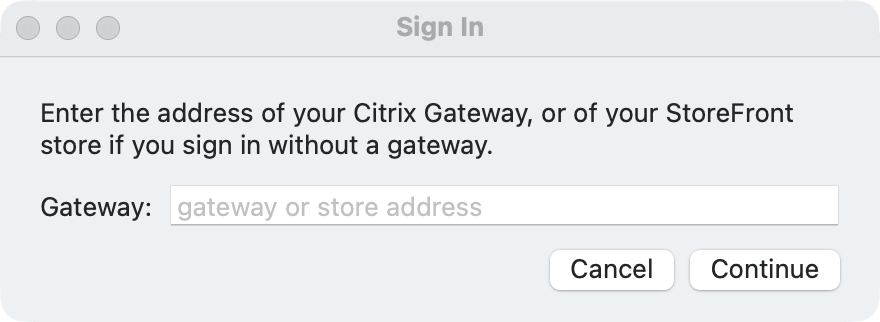
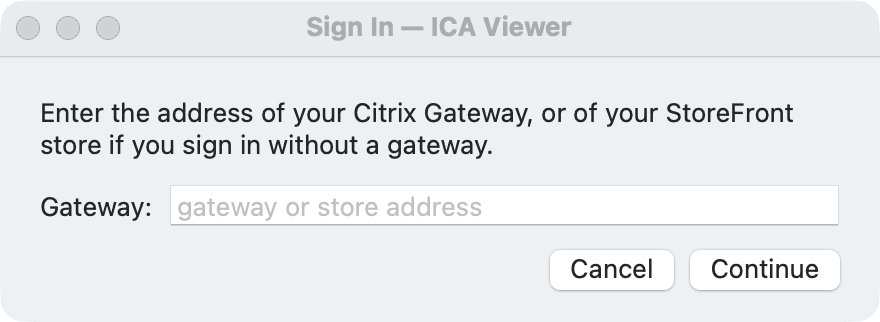
0.11.3: version, README and FEATURES (square remote windows, sign-in kept alive while a session is connected), manual 02/04/11/16 (keep-alive, window look), manual screenshots rebuilt (square windows, sign-in title)

Changed region(s): [[0.3375, 0.0311, 0.6443, 0.1242]]

diff --git a/manual/16-privacy-security.md b/manual/16-privacy-security.md
@@ -6,6 +6,7 @@ This chapter says what ICA Viewer stores and what leaves your Mac.
 
 - **The connection to your organization's server.** ICA Viewer connects only to the gateway or store address you give it, and from there to the session. Through a gateway, sessions are always encrypted with TLS. A store you reach directly decides this itself: if a session is not encrypted, the Connection Center shows **Connection: not encrypted**. A store address that starts with `http://` is not encrypted at all, your password included. ICA Viewer has no server of its own and sends no data to its authors or to anyone else.
 - **Your sign-in.** Your user name, password and one-time code go to your organization's gateway or store, as with any Citrix client.
+- **A keep-alive while you work.** While at least one session is connected, ICA Viewer asks the store for your session list every 30 minutes, so the gateway does not end your sign-in while you work in a remote app. Without a connected session it sends nothing, and your organization's idle time-out applies as usual.
 - **Your time zone.** When the server asks for it, the session gets your Mac's time zone, so remote apps show your local time.
 - **What you choose to share.** The clipboard, files you copy, a shared folder, the microphone or the camera reach the session only when you turn these on or use them (see below). The microphone and the camera are on by default, but they are used only while a remote app records or uses the camera, and only after you allowed it when macOS asked. macOS asks once: after that, any remote app in any session can use them without asking again, and the menu bar shows when it does.
 - **Reports.** A problem report is sent only when you create a GitHub issue yourself, after you have read the preview ([Report a Problem](13-report-a-problem.md)).

diff --git a/README.md b/README.md
@@ -44,14 +44,14 @@ product and not a replacement for the official client. Expect gaps; see [Status]
 
 The screenshots come from a test lab (macOS VM, example user and apps).
 
-## What it does (0.11.2)
+## What it does (0.11.3)
 
 - **Sign in** through a gateway (user name, password, one-time code) or to a StoreFront store
   directly; optional Keychain storage with Touch ID; Sign Out.
-- **Seamless apps** as native windows, several apps in one session, a published desktop in one window,
-  the launcher on ⌃⌥⌘L.
-- **Sessions survive trouble:** short network drops, automatic reconnect after longer ones, a
-  Connection Center to reconnect, disconnect or log off, and a notice for features the server blocks.
+- **Seamless apps** as native windows with square corners, as on Windows, several apps in one session, a
+  published desktop in one window, the launcher on ⌃⌥⌘L.
+- **Sessions survive trouble:** short network drops, automatic reconnect after longer ones, a sign-in
+  kept alive while a session is connected, a Connection Center to reconnect, disconnect or log off, and a notice for features the server blocks.
 - **Clipboard:** text, images, rich text, and files and folders both ways (large copies with progress).
 - **Client drive, PDF printing, audio playback, the microphone and the webcam** (both on by default; used
   only while a remote app records or uses the camera, after macOS asks once), Retina-sharp display, keyboard

diff --git a/FEATURES.md b/FEATURES.md
@@ -1,8 +1,8 @@
 # Feature matrix: stock Citrix Workspace app vs ICAViewer
 
 ICAViewer is an independent project and is not affiliated with Citrix. The stock columns summarise
-Citrix's public documentation (links under Sources). The Ours column describes ICAViewer v0.11.2 as
-of 2026-11-19; how each feature behaves is described in the README and under `docs/`.
+Citrix's public documentation (links under Sources). The Ours column describes ICAViewer v0.11.3 as
+of 2026-11-21; how each feature behaves is described in the README and under `docs/`.
 
 ## At a glance
 
@@ -256,7 +256,8 @@ windows are borderless windows that Accessibility reports as `AXDialog` without 
 Some third-party window switchers require a standard window with a minimize button and therefore
 skip them. The Dock icons come from placeholder "Husk" processes (`com.citrix.ctxapphusk`) that own
 no windows, controlled by `enableAppDockEnhancement` / `EnableAppPreview`. In ICAViewer each remote
-window is an `AXStandardWindow` with an enabled minimize button that round-trips to a TWI minimise,
+window is an `AXStandardWindow` with an enabled minimize button that round-trips to a TWI minimise
+(since 0.11.3 borderless with square corners, as the app draws itself; the window is still reported this way),
 a single caption (the remote one). Verified across two screens. Since 0.5 each remote app also has
 its own Dock and Cmd-Tab entry, with its name, icon and menu bar.
 

diff --git a/manual/02-signing-in.md b/manual/02-signing-in.md
@@ -52,7 +52,7 @@ Tick **Remember in Keychain** before you sign in. ICA Viewer then keeps your pas
 
 If the app starts without a saved login, or the server asks you to sign in again, choose **File > Sign In…**.
 
-Your sign-in at the server ends after a while (at a gateway often after about 90 minutes). When you next open an app, open the Connection Center or click its Refresh, ICA Viewer signs you in again by itself with the saved login (Touch ID or the Mac password may be asked) and carries on. Without a saved login, or if the server does not accept it, the sign-in window opens.
+Your sign-in at the server ends after a while without use (at a gateway often after about 90 minutes). While a session is connected, ICA Viewer keeps it alive (see [Privacy and security](16-privacy-security.md)), so this happens only when no session was open. When you next open an app, open the Connection Center or click its Refresh, ICA Viewer signs you in again by itself with the saved login (Touch ID or the Mac password may be asked) and carries on. Without a saved login, or if the server does not accept it, the sign-in window opens.
 
 ## Sign out
 

diff --git a/manual/11-reliability.md b/manual/11-reliability.md
@@ -34,4 +34,5 @@ Short drops are always bridged automatically.
 ## Notes
 
 - The two screenshots in this chapter are illustrations from the app's demo mode. The test lab cannot cut the network on demand while the pictures are taken.
+- While a session is connected, ICA Viewer keeps your sign-in at the server alive, so the automatic reconnect does not have to sign in again first. After a long time without any session the sign-in may have ended; ICA Viewer then signs you in again with the saved login ([Signing in](02-signing-in.md#sign-in-again)).
 - When the Mac sleeps for a long time, the session may have been ended by the server. Use **Reconnect**; if your apps are gone, start them again from the launcher.

diff --git a/manual/04-remote-apps.md b/manual/04-remote-apps.md
@@ -6,7 +6,7 @@ Every window of a remote app is a real Mac window. You can move it, resize it, m
 
 ![Notepad running on the server, shown as a Mac window](images/notepad.png)
 
-The title bar belongs to the remote app, so the buttons and the title are the ones Windows draws. Moving and resizing happens on your Mac at once and is passed on to the server afterwards.
+The title bar belongs to the remote app, so the buttons and the title are the ones Windows draws. The windows have square corners and no Mac frame, so an app looks as it does on Windows. Moving and resizing happens on your Mac at once and is passed on to the server afterwards.
 
 ## One Dock entry per app
 

diff --git a/manual/README.md b/manual/README.md
@@ -1,6 +1,6 @@
 # ICA Viewer User Manual
 
-Version <!-- version -->0.11.2<!-- /version -->
+Version <!-- version -->0.11.3<!-- /version -->
 
 ICA Viewer is a Mac app for working with Windows apps that your organization publishes through Citrix. Each remote app opens in its own Mac window, with its own Dock icon, and works with Cmd-Tab, Mission Control and your window switcher like any local app.
 
